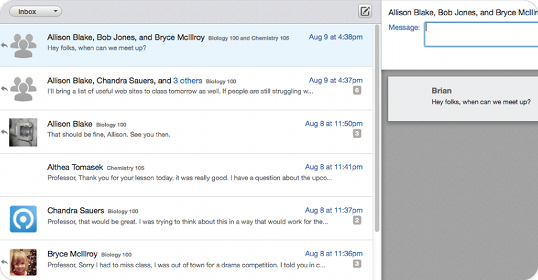
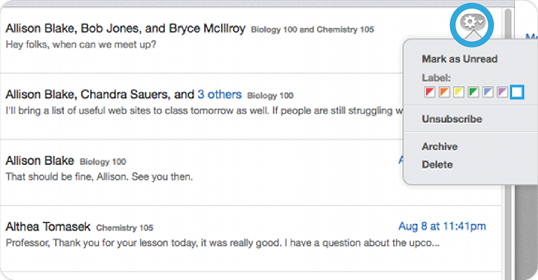
tweak slideshow styling
fix screenshot image on slide 3, do corners/shadow in css, and tile
background image

(cherry picked from commit 47eaf29745d339e3d18df3f5944c9be533037ad2)

diff --git a/public/javascripts/compiled/conversations_intro.js b/public/javascripts/compiled/conversations_intro.js
@@ -17,7 +17,7 @@
       });
       introSlideshow.addSlide(I18n.t('titles.slide3', 'Slide 3'), function(slide) {
         slide.addImage('/images/conversations/intro/image3.png', 'screenshot');
-        slide.addParagraph(I18n.t('slide3.paragraph1', 'Conversations can be marked as read/unread, labeled, or archived by color using the “actions” button on the message.'));
+        slide.addParagraph(I18n.t('slide3.paragraph1', 'Conversations can be marked as read/unread, archived, or labeled by color using the "actions" button on the message.'));
         return slide.addParagraph(I18n.t('slide3.paragraph2', 'Archived messages aren\'t deleted, they\'re just moved out of your inbox, so you can access them again if needed.'));
       });
       introSlideshow.addSlide(I18n.t('titles.slide4', 'Slide 4'), function(slide) {

diff --git a/app/stylesheets/slideshow.sass b/app/stylesheets/slideshow.sass
@@ -2,11 +2,14 @@
 .slideshow_dialog
   border: none !important
   background: transparent !important
-  box-shadow: none !important
+  +border-radius(30px)
+  +box-shadow( rgba(0,0,0,0.2), 0, 0, 6px, 3px)
   .ui-dialog-titlebar
     display: none
   .ui-dialog-content
-    background-image: url(/images/slideshow/background.png)
+    background-image: url(/images/slideshow/background-slice.png)
+    background-color: #2a2a2a
+    +border-radius(30px)
     margin: 0
     padding: 24px
     ul.slides
